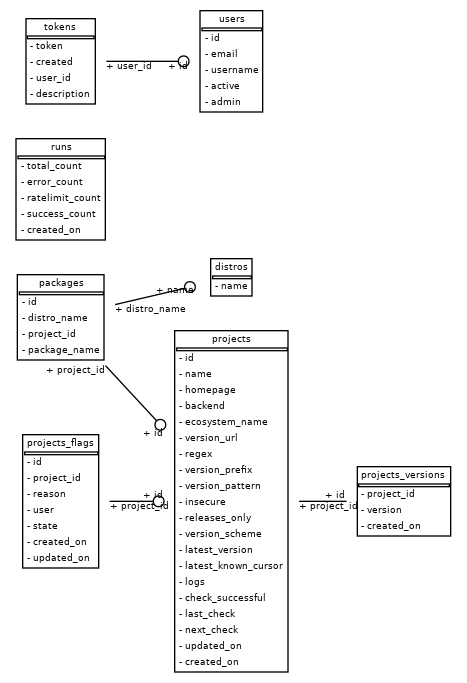
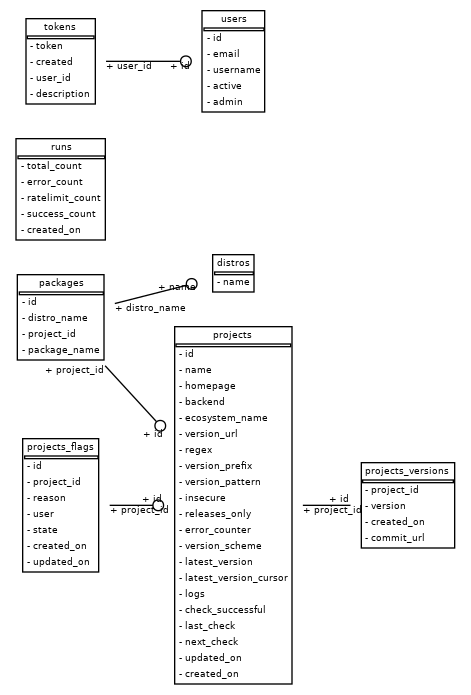
Release 0.18.0

diff --git a/anitya/__init__.py b/anitya/__init__.py
@@ -2,4 +2,4 @@
 
 
 __api_version__ = "1.0"
-__version__ = "0.17.2"
+__version__ = "0.18"

diff --git a/docs/release-notes.rst b/docs/release-notes.rst
@@ -4,6 +4,115 @@ Release Notes
 
 .. towncrier release notes start
 
+0.18 (2020-01-13)
+=================
+
+API Changes
+-----------
+
+* Filters in APIv2 are now case insensitive
+  (`#807 <https://github.com/release-monitoring/anitya/issues/807>`_)
+
+
+Features
+--------
+
+* Automatically delete projects without versions that reached configured error threshold
+  (`PR#865 <https://github.com/release-monitoring/anitya/pull/865>`_)
+
+* GitHub: Store and use latest known version cursors
+  (`PR#873 <https://github.com/release-monitoring/anitya/pull/873>`_)
+
+* Link to commit of latest version if known
+  (`PR#874 <https://github.com/release-monitoring/anitya/pull/874>`_)
+
+* Use dropdown field for distro when on Add project form
+  (`#777 <https://github.com/release-monitoring/anitya/issues/777>`_)
+
+* Add error counter to project
+  (`#829 <https://github.com/release-monitoring/anitya/issues/829>`_)
+
+* Add timeout option for check service
+  (`#843 <https://github.com/release-monitoring/anitya/issues/843>`_)
+
+* Strip whitespaces from version when removing prefix
+  (`#866 <https://github.com/release-monitoring/anitya/issues/866>`_)
+
+
+Bug Fixes
+---------
+
+* Fix crash on GNU, Crates and Folder backends
+  (`PR#837 <https://github.com/release-monitoring/anitya/pull/837>`_)
+
+* Fix OOM issue with check_service
+  (`PR#842 <https://github.com/release-monitoring/anitya/pull/842>`_)
+
+* Removed duplicate search form from project search result page
+  (`PR#877 <https://github.com/release-monitoring/anitya/pull/877>`_)
+
+* Fix accessing projects in GitLab subgroups
+  (`PR#884 <https://github.com/release-monitoring/anitya/pull/884>`_)
+
+* Database schema image is missing in documentation
+  (`#692 <https://github.com/release-monitoring/anitya/issues/692>`_)
+
+* Current page is forgotten on login
+  (`#713 <https://github.com/release-monitoring/anitya/issues/713>`_)
+
+* If URL is changed, update ecosystem value as well
+  (`#764 <https://github.com/release-monitoring/anitya/issues/764>`_)
+
+* Tooltips are not working on Firefox 68
+  (`#813 <https://github.com/release-monitoring/anitya/issues/813>`_)
+
+* Use tag name instead of release name for projects, which are checking only releases
+  (`#845 <https://github.com/release-monitoring/anitya/issues/845>`_)
+
+* Can't disable "Check releases instead of tags" checkbox when editing project
+  (`#855 <https://github.com/release-monitoring/anitya/issues/855>`_)
+
+* Allow no delimiter in calendar versioning pattern
+  (`#867 <https://github.com/release-monitoring/anitya/issues/867>`_)
+
+* Distro search is broken
+  (`#876 <https://github.com/release-monitoring/anitya/issues/876>`_)
+
+
+Development Changes
+-------------------
+
+* Use DEBUG level log for development
+  (`PR#826 <https://github.com/release-monitoring/anitya/pull/826>`_)
+
+* Add Dependabot configuration file
+  (`PR#844 <https://github.com/release-monitoring/anitya/pull/844>`_)
+
+* Bump Vagrant box to Fedora 31
+  (`PR#858 <https://github.com/release-monitoring/anitya/pull/858>`_)
+
+* Mock the Fedora Messaging calls in the unit tests
+  (`PR#860 <https://github.com/release-monitoring/anitya/pull/860>`_)
+
+* Make `black` show diff of needed changes
+  (`PR#878 <https://github.com/release-monitoring/anitya/pull/878>`_)
+
+* Make log output from check_project_release more readable
+  (`#828 <https://github.com/release-monitoring/anitya/issues/828>`_)
+
+
+Contributors
+------------
+Many thanks to the contributors of bug reports, pull requests, and pull request
+reviews for this release:
+
+* Anatoli Babenia
+* Aurélien Bompard
+* Nicholas La Roux
+* Michal Konečný
+* Nils Philippsen
+
+
 0.17.2 (2019-09-26)
 ===================
 
